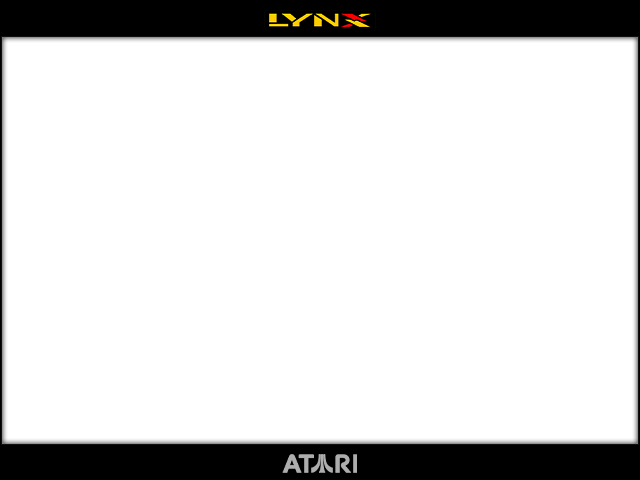
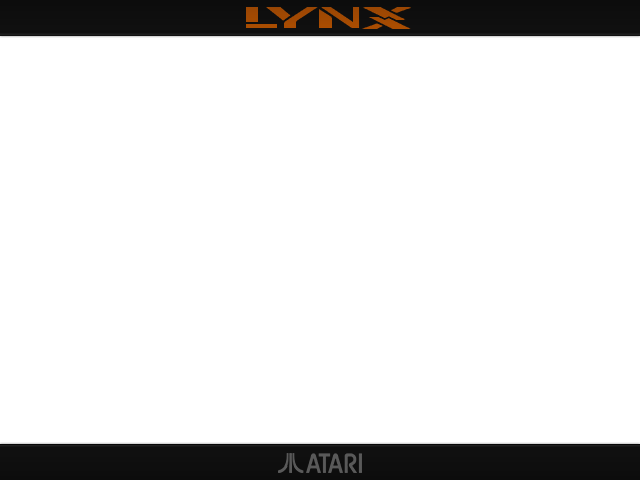
Replaced some ED bezels with the bezels from nvitaternas collection

Changed region(s): [[0.0, 0.0, 1.0, 1.0]]

diff --git a/README.md b/README.md
@@ -8,3 +8,4 @@ It consists of bezels from the following sources:
 
 * [Batocera Bezels](https://github.com/batocera-linux/batocera-bezel)
 * ED Bezels (source unknown)
+* [Handheld bezel collection by nvitaterna](https://github.com/nvitaterna/batocera_4_3_handheld_bezels), compiled from bezels by drkhrse and antiKk 
